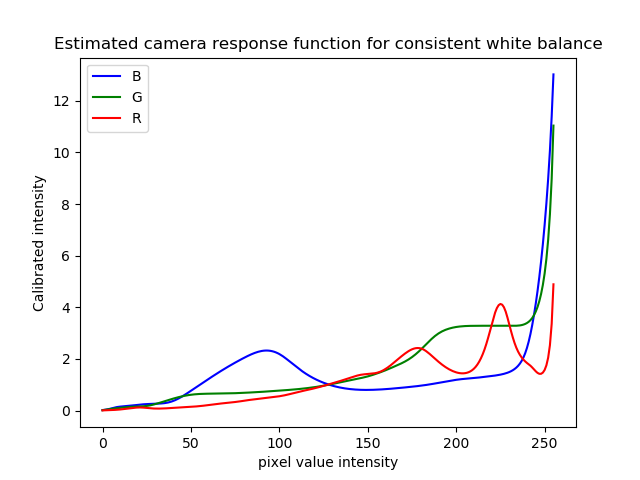
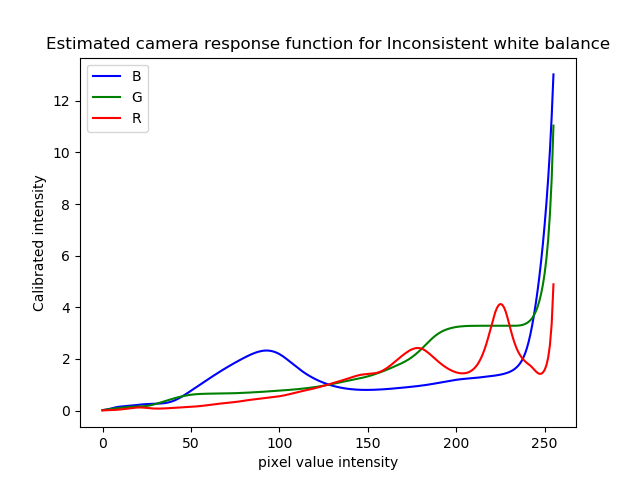
Test case

Changed region(s): [[0.0625, 0.0625, 0.9688, 0.125]]

diff --git a/algorithm.py b/algorithm.py
@@ -23,7 +23,7 @@ def tone_map(HDR_object):
 
 def save_result(HDR_result):
     result_image = np.clip(HDR_result * 255, 0, 255).astype('uint8')
-    cv.imwrite("./Test Images/2/Inconsistent/Result.jpg", result_image)
+    cv.imwrite("./Test Images/5/Inconsistent/Result.jpg", result_image)
 
 def graph_camera_response_function(images, times):
     calibration = cv.createCalibrateDebevec()
@@ -31,16 +31,16 @@ def graph_camera_response_function(images, times):
     return crf_debevec
 
 if __name__ == "__main__":
-    time = np.array([1.0/142.0, 1.0/91.0, 1.0/56.0, 1.0/30.0], dtype=np.float32)
-    paths = ["./Test Images/5/Inconsistent/1.jpeg",
-             "./Test Images/5/Inconsistent/2.jpeg",
-             "./Test Images/5/Inconsistent/3.jpeg",
-             "./Test Images/5/Inconsistent/4.jpeg"]
+    time = np.array([1.0/8000.0, 1.0/1020.0, 1.0/100.0, 1.0/20.0], dtype=np.float32)
+    paths = ["./Test Images/2/Inconsistent/1.jpg",
+             "./Test Images/2/Inconsistent/2.jpg",
+             "./Test Images/2/Inconsistent/3.jpg",
+             "./Test Images/2/Inconsistent/4.jpg"]
     images = readImagesAndTimes(paths)
     merge_mertens = cv.createMergeMertens()
     fusion = merge_mertens.process(images)
     fusion_8bit = np.clip(fusion * 255, 0, 255).astype('uint8')
-    cv.imwrite("./Test Images/5/Inconsistent/fusion_result.png", fusion_8bit)
+    cv.imwrite("./Test Images/2/Inconsistent/fusion_result.png", fusion_8bit)
     hdr_merge = tone_merge(images, time)
     mapping = tone_map(hdr_merge)
     save_result(mapping)
@@ -52,6 +52,6 @@ if __name__ == "__main__":
     plt.xlabel("pixel value intensity")
     plt.ylabel("Calibrated intensity")
     plt.legend()
-    plt.title("Estimated camera response function for consistent white balance")
-    plt.savefig('./Test Images/5/Inconsistent/CRF.png')
+    plt.title("Estimated camera response function for Inconsistent white balance")
+    plt.savefig('./Test Images/2/Inconsistent/CRF.png')
     plt.show()
